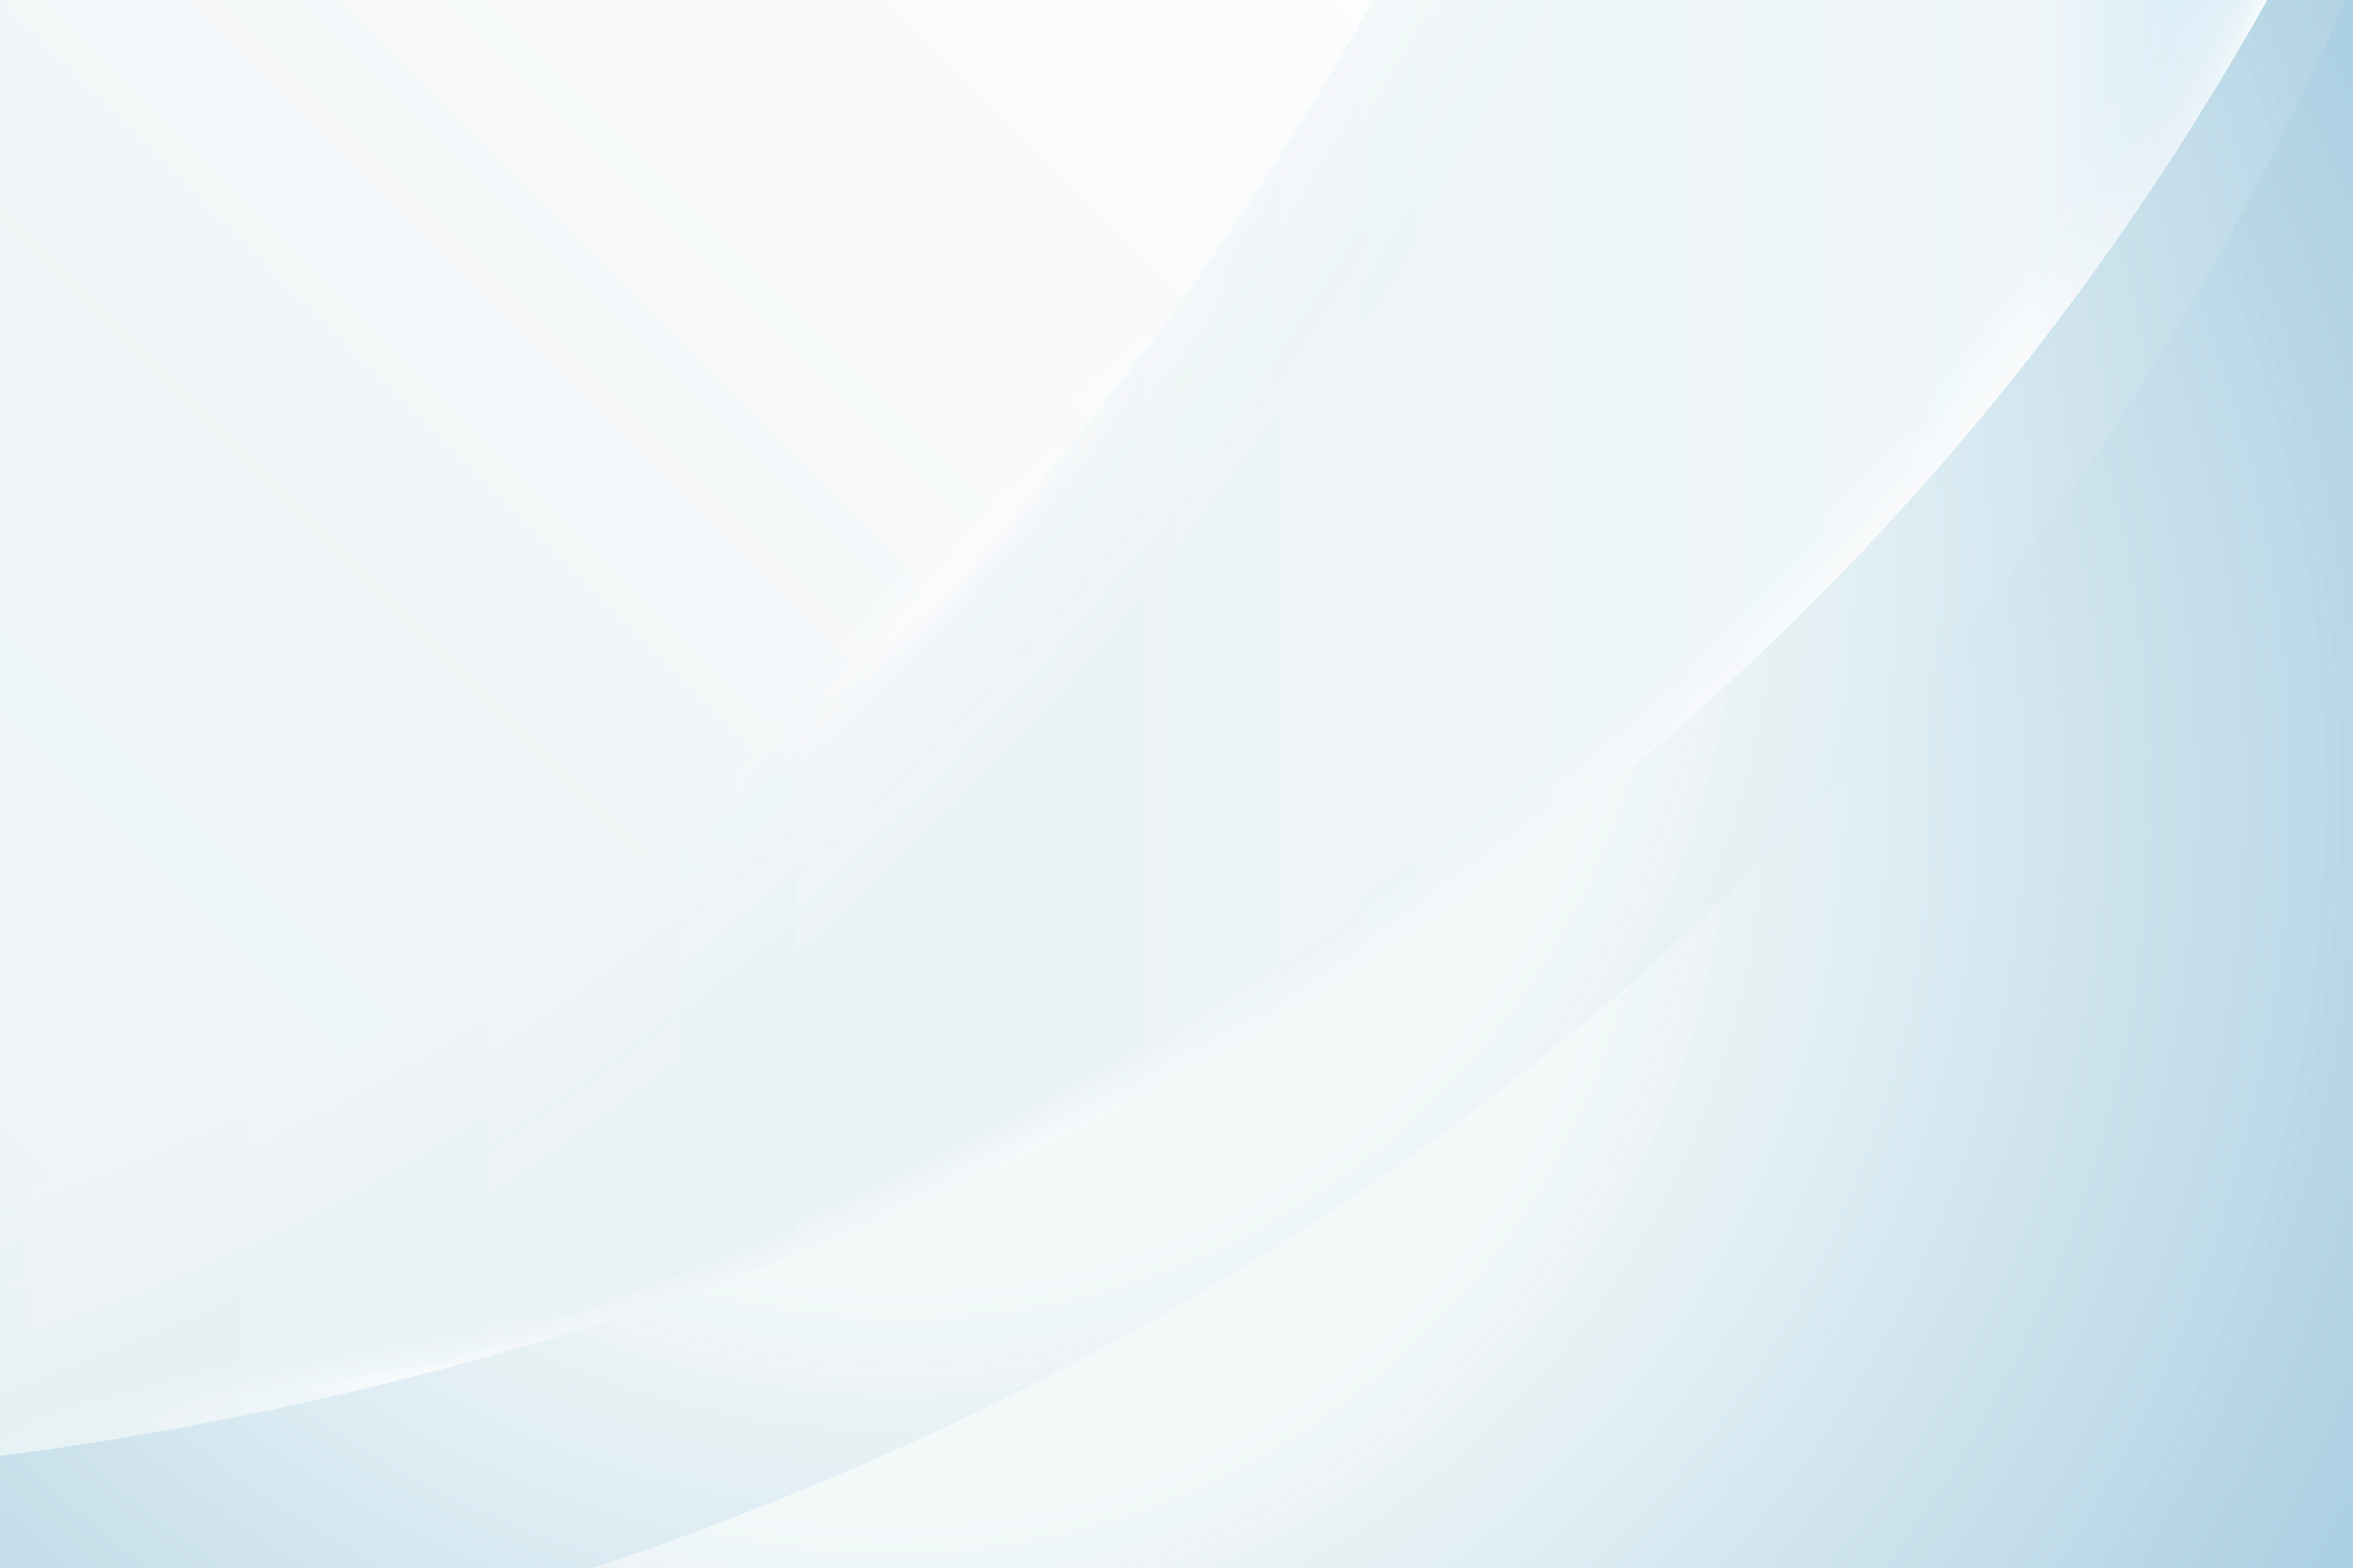
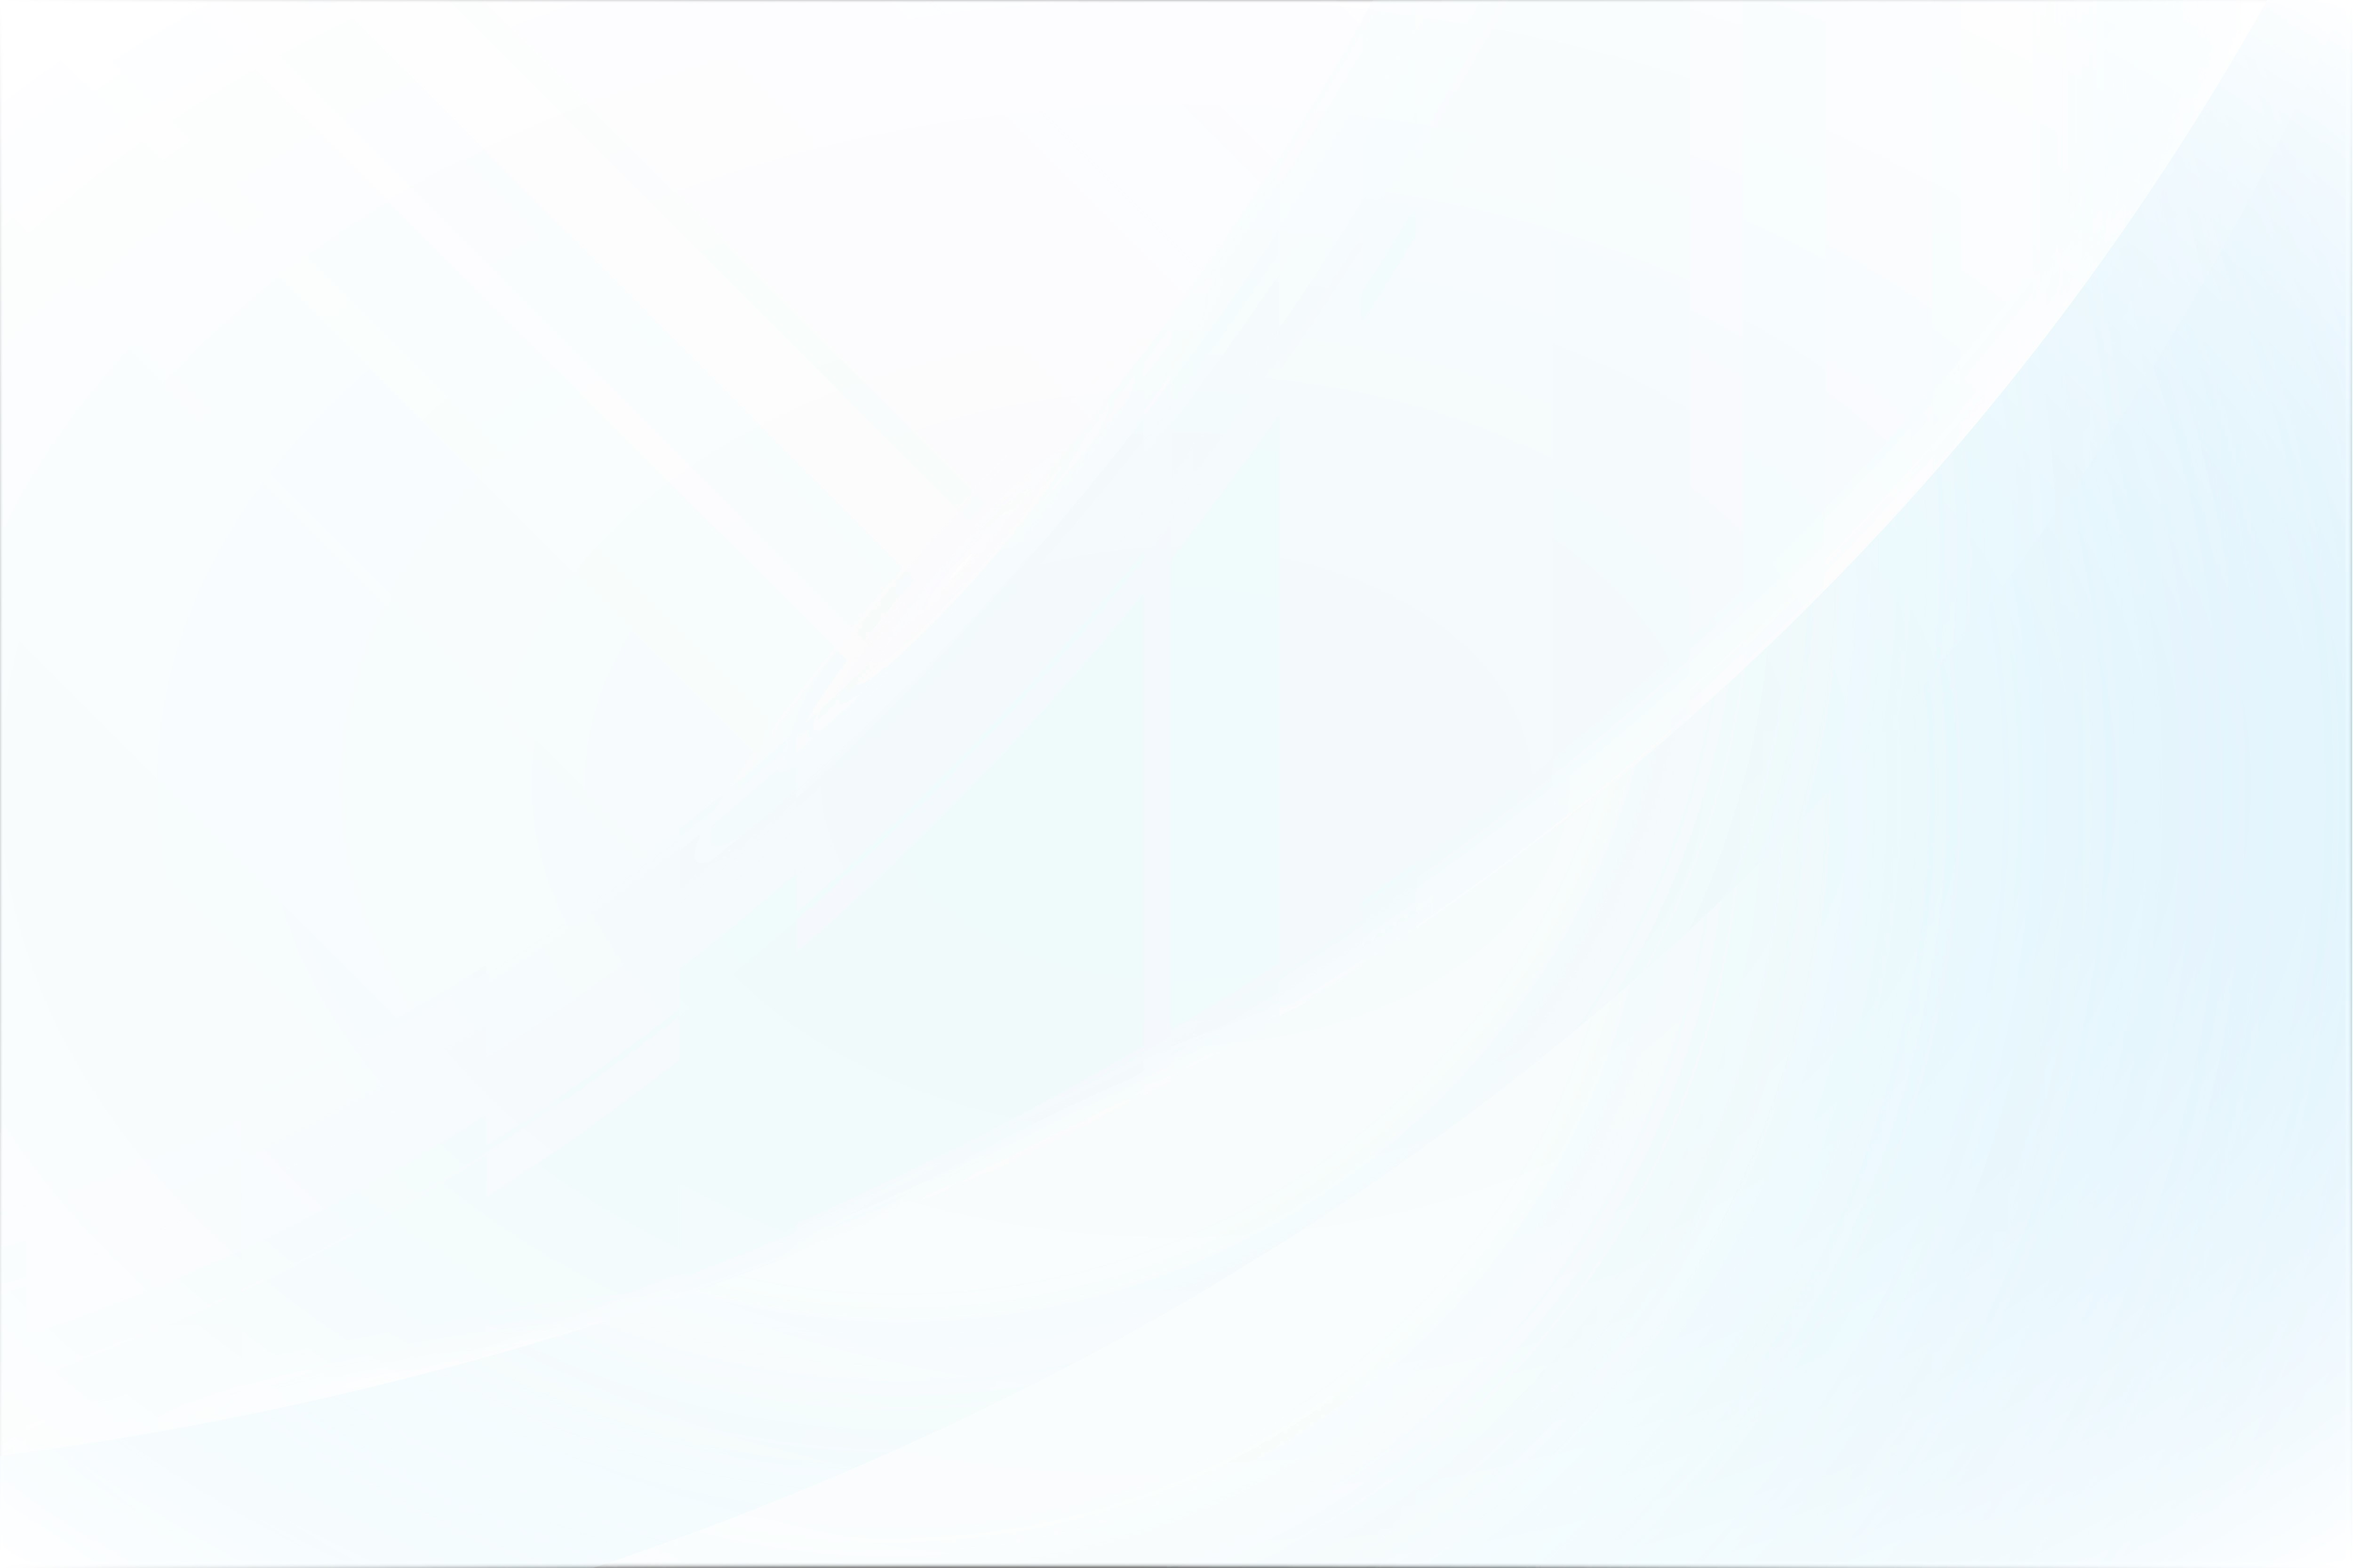
Styling: LoginPage&Brand

Changed region(s): [[0.0, 0.0, 1.0, 1.0]]

diff --git a/src/app/pages/login/login.component.css b/src/app/pages/login/login.component.css
@@ -1,0 +1,58 @@
+.wrapper {
+  width: 500px;
+  height: 80vh;
+  margin: auto;
+  padding: 1rem;
+  display: flex;
+  align-items: center;
+  justify-content: center;
+  flex-direction: column;
+}
+.title {
+  color: #111827;
+  font-size: 1.8rem;
+  font-weight: 700;
+  margin-top: 1rem;
+  margin-bottom: 5rem;
+}
+
+.form-box-stacked {
+  width: 100%;
+  margin-bottom: 4rem;
+}
+input {
+  display: block;
+  outline: none;
+  width: 100%;
+  padding: 0.6rem 1rem;
+  border: #e5e7eb solid 1px;
+  font-size: 1rem;
+  font-weight: 500;
+  background-color: #fff;
+  line-height: 1.25rem;
+  box-sizing: border-box;
+}
+input:focus {
+  box-shadow: 0 0 0 2px #4f46e5;
+}
+.input-stack-top {
+  border-radius: 6px 6px 0 0;
+  margin-bottom: 3px;
+}
+.input-stack-bot {
+  border-radius: 0 0 6px 6px;
+}
+.btn-submit {
+  width: 100%;
+  background-color: #4f46e5;
+  color: #fff;
+  padding: 0.6rem 1rem;
+  font-size: 1rem;
+  font-weight: 500;
+  border: none;
+  border-radius: 6px;
+  cursor: pointer;
+}
+.btn-submit:hover {
+  background-color: #4338ca;
+}

diff --git a/src/styles.css b/src/styles.css
@@ -1,11 +1,27 @@
 body {
-  font-family: 'Poppins', sans-serif;
+  font-family: 'Inter', sans-serif;
+  box-sizing: border-box;
   color: #6b7280;
   padding: 0;
   margin: 0;
   background-image: url('./assets/background.jpg');
+  background-repeat: no-repeat;
+  background-attachment: fixed;
   background-size: 100%;
 }
-/* TODO */
-/* Lighten the image in editor */
-/* background-color: #f9fafb; */
+input, textarea, button {font-family: inherit}
+
+.container {
+  background-color: #f9fafb;
+  width: 95%;
+  margin: 1rem auto;
+  border-radius: 8px;
+  border: 1px solid #e5e7eb;
+}
+.brand {
+  color: #4f46e5;
+  font-weight: 700;
+  font-size: 2.5rem;
+  font-style: italic;
+  margin: 0 3rem;
+}

diff --git a/src/app/app.module.ts b/src/app/app.module.ts
@@ -4,9 +4,10 @@ import { BrowserModule } from '@angular/platform-browser';
 import { AppRoutingModule } from './app-routing.module';
 import { AppComponent } from './app.component';
 import { HeaderComponent } from './components/header/header.component';
+import { LoginComponent } from './pages/login/login.component';
 
 @NgModule({
-  declarations: [AppComponent, HeaderComponent],
+  declarations: [AppComponent, HeaderComponent, LoginComponent],
   imports: [BrowserModule, AppRoutingModule],
   providers: [],
   bootstrap: [AppComponent],

diff --git a/src/index.html b/src/index.html
@@ -9,7 +9,7 @@
     <link rel="preconnect" href="https://fonts.googleapis.com" />
     <link rel="preconnect" href="https://fonts.gstatic.com" crossorigin />
     <link
-      href="https://fonts.googleapis.com/css2?family=Poppins:ital,wght@0,100;0,200;0,300;0,400;0,500;0,600;0,700;0,800;0,900;1,100;1,200;1,300;1,400;1,500;1,600;1,700;1,800;1,900&display=swap"
+      href="https://fonts.googleapis.com/css2?family=Inter:wght@100;200;300;400;500;600;700;800;900&display=swap"
       rel="stylesheet"
     />
   </head>

diff --git a/src/app/app-routing.module.ts b/src/app/app-routing.module.ts
@@ -1,10 +1,11 @@
 import { NgModule } from '@angular/core';
 import { RouterModule, Routes } from '@angular/router';
+import { LoginComponent } from './pages/login/login.component';
 
-const routes: Routes = [];
+const routes: Routes = [{ path: 'login', component: LoginComponent }];
 
 @NgModule({
   imports: [RouterModule.forRoot(routes)],
-  exports: [RouterModule]
+  exports: [RouterModule],
 })
-export class AppRoutingModule { }
+export class AppRoutingModule {}

diff --git a/src/app/pages/login/login.component.html b/src/app/pages/login/login.component.html
@@ -1,0 +1,11 @@
+<div class="container">
+  <form class="wrapper">
+    <div class="brand">OMT</div>
+    <h2 class="title">Sign in to your account</h2>
+    <div class="form-box-stacked">
+      <input type="text" class="input-stack-top" placeholder="Email address" />
+      <input type="password" class="input-stack-bot" placeholder="Password" />
+    </div>
+    <button class="btn-submit" type="submit">Sign in</button>
+  </form>
+</div>

diff --git a/src/app/pages/login/login.component.ts b/src/app/pages/login/login.component.ts
@@ -1,0 +1,15 @@
+import { Component, OnInit } from '@angular/core';
+
+@Component({
+  selector: 'app-login',
+  templateUrl: './login.component.html',
+  styleUrls: ['./login.component.css']
+})
+export class LoginComponent implements OnInit {
+
+  constructor() { }
+
+  ngOnInit(): void {
+  }
+
+}

diff --git a/src/app/components/header/header.component.css b/src/app/components/header/header.component.css
@@ -5,9 +5,14 @@
   height: 100px;
   align-items: center;
   background: transparent;
+  position: sticky;
+  top: 0;
+  z-index: 1000;
 }
 ul {
   list-style: none;
+  display: flex;
+  align-items: center;
 }
 li {
   display: inline-block;

diff --git a/src/app/components/header/header.component.html b/src/app/components/header/header.component.html
@@ -2,6 +2,9 @@
   <nav class="nav-left">
     <ul>
       <li>
+        <span class="brand">OMT</span>
+      </li>
+      <li>
         <a>Sample</a>
       </li>
       <li>
